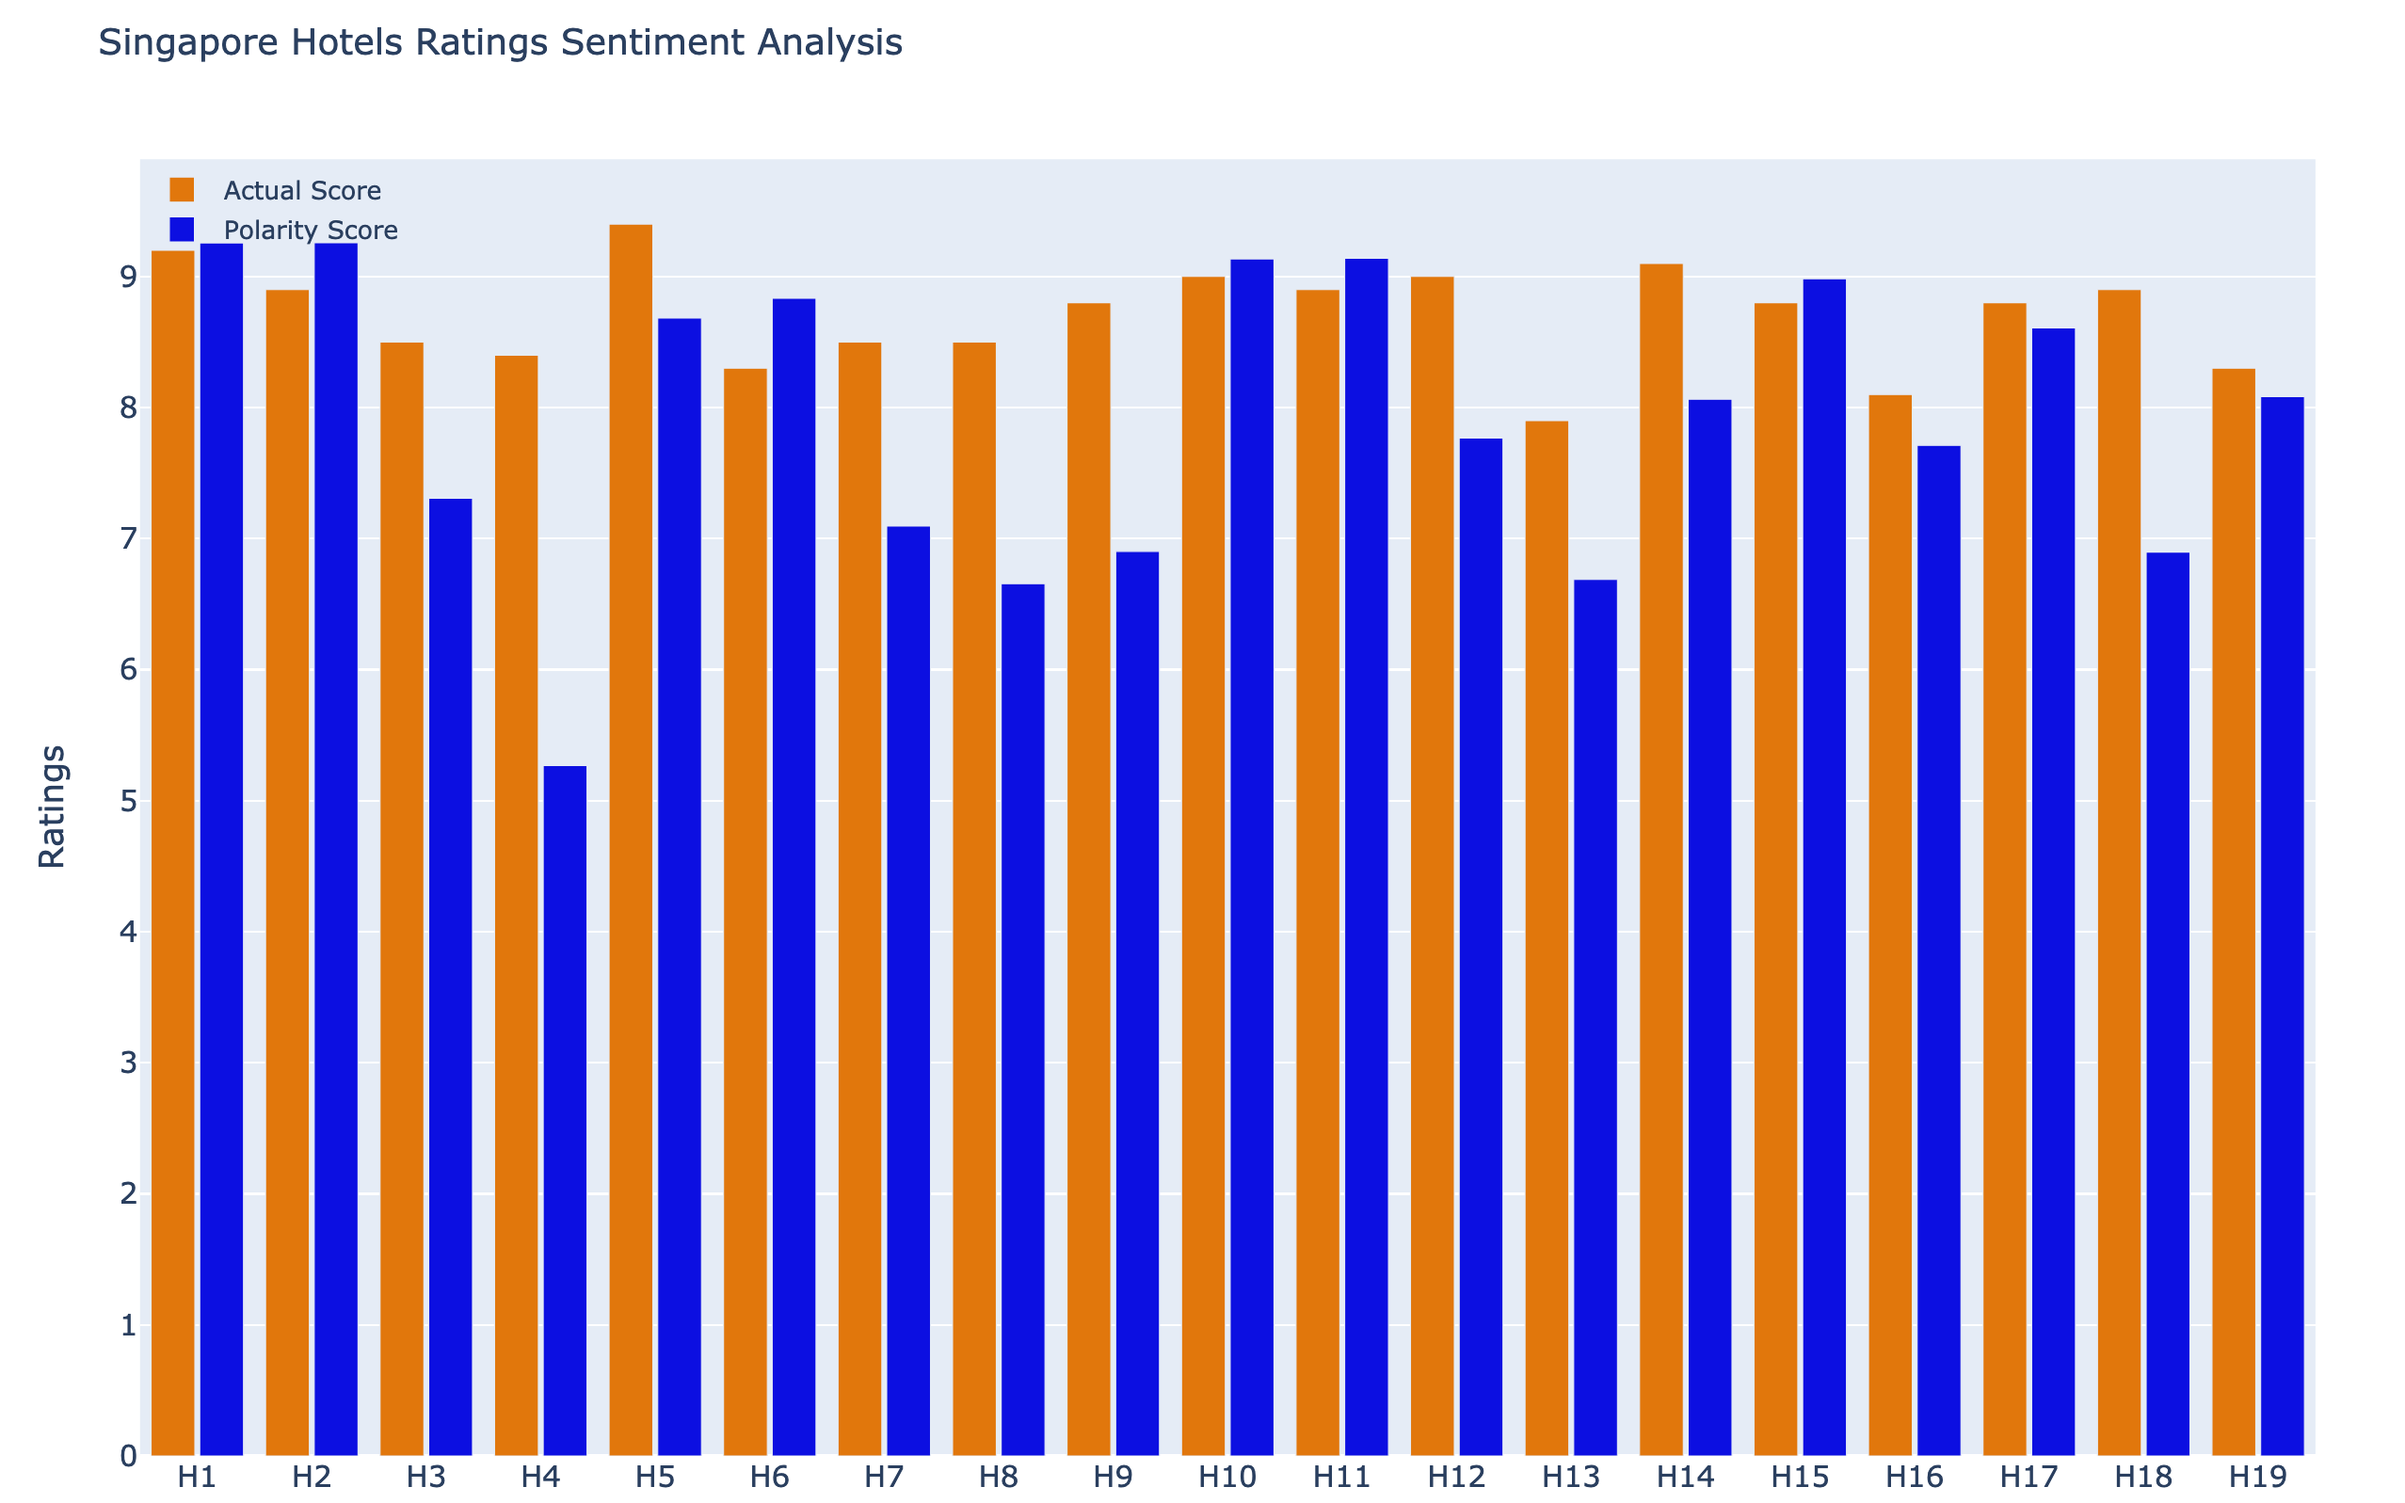
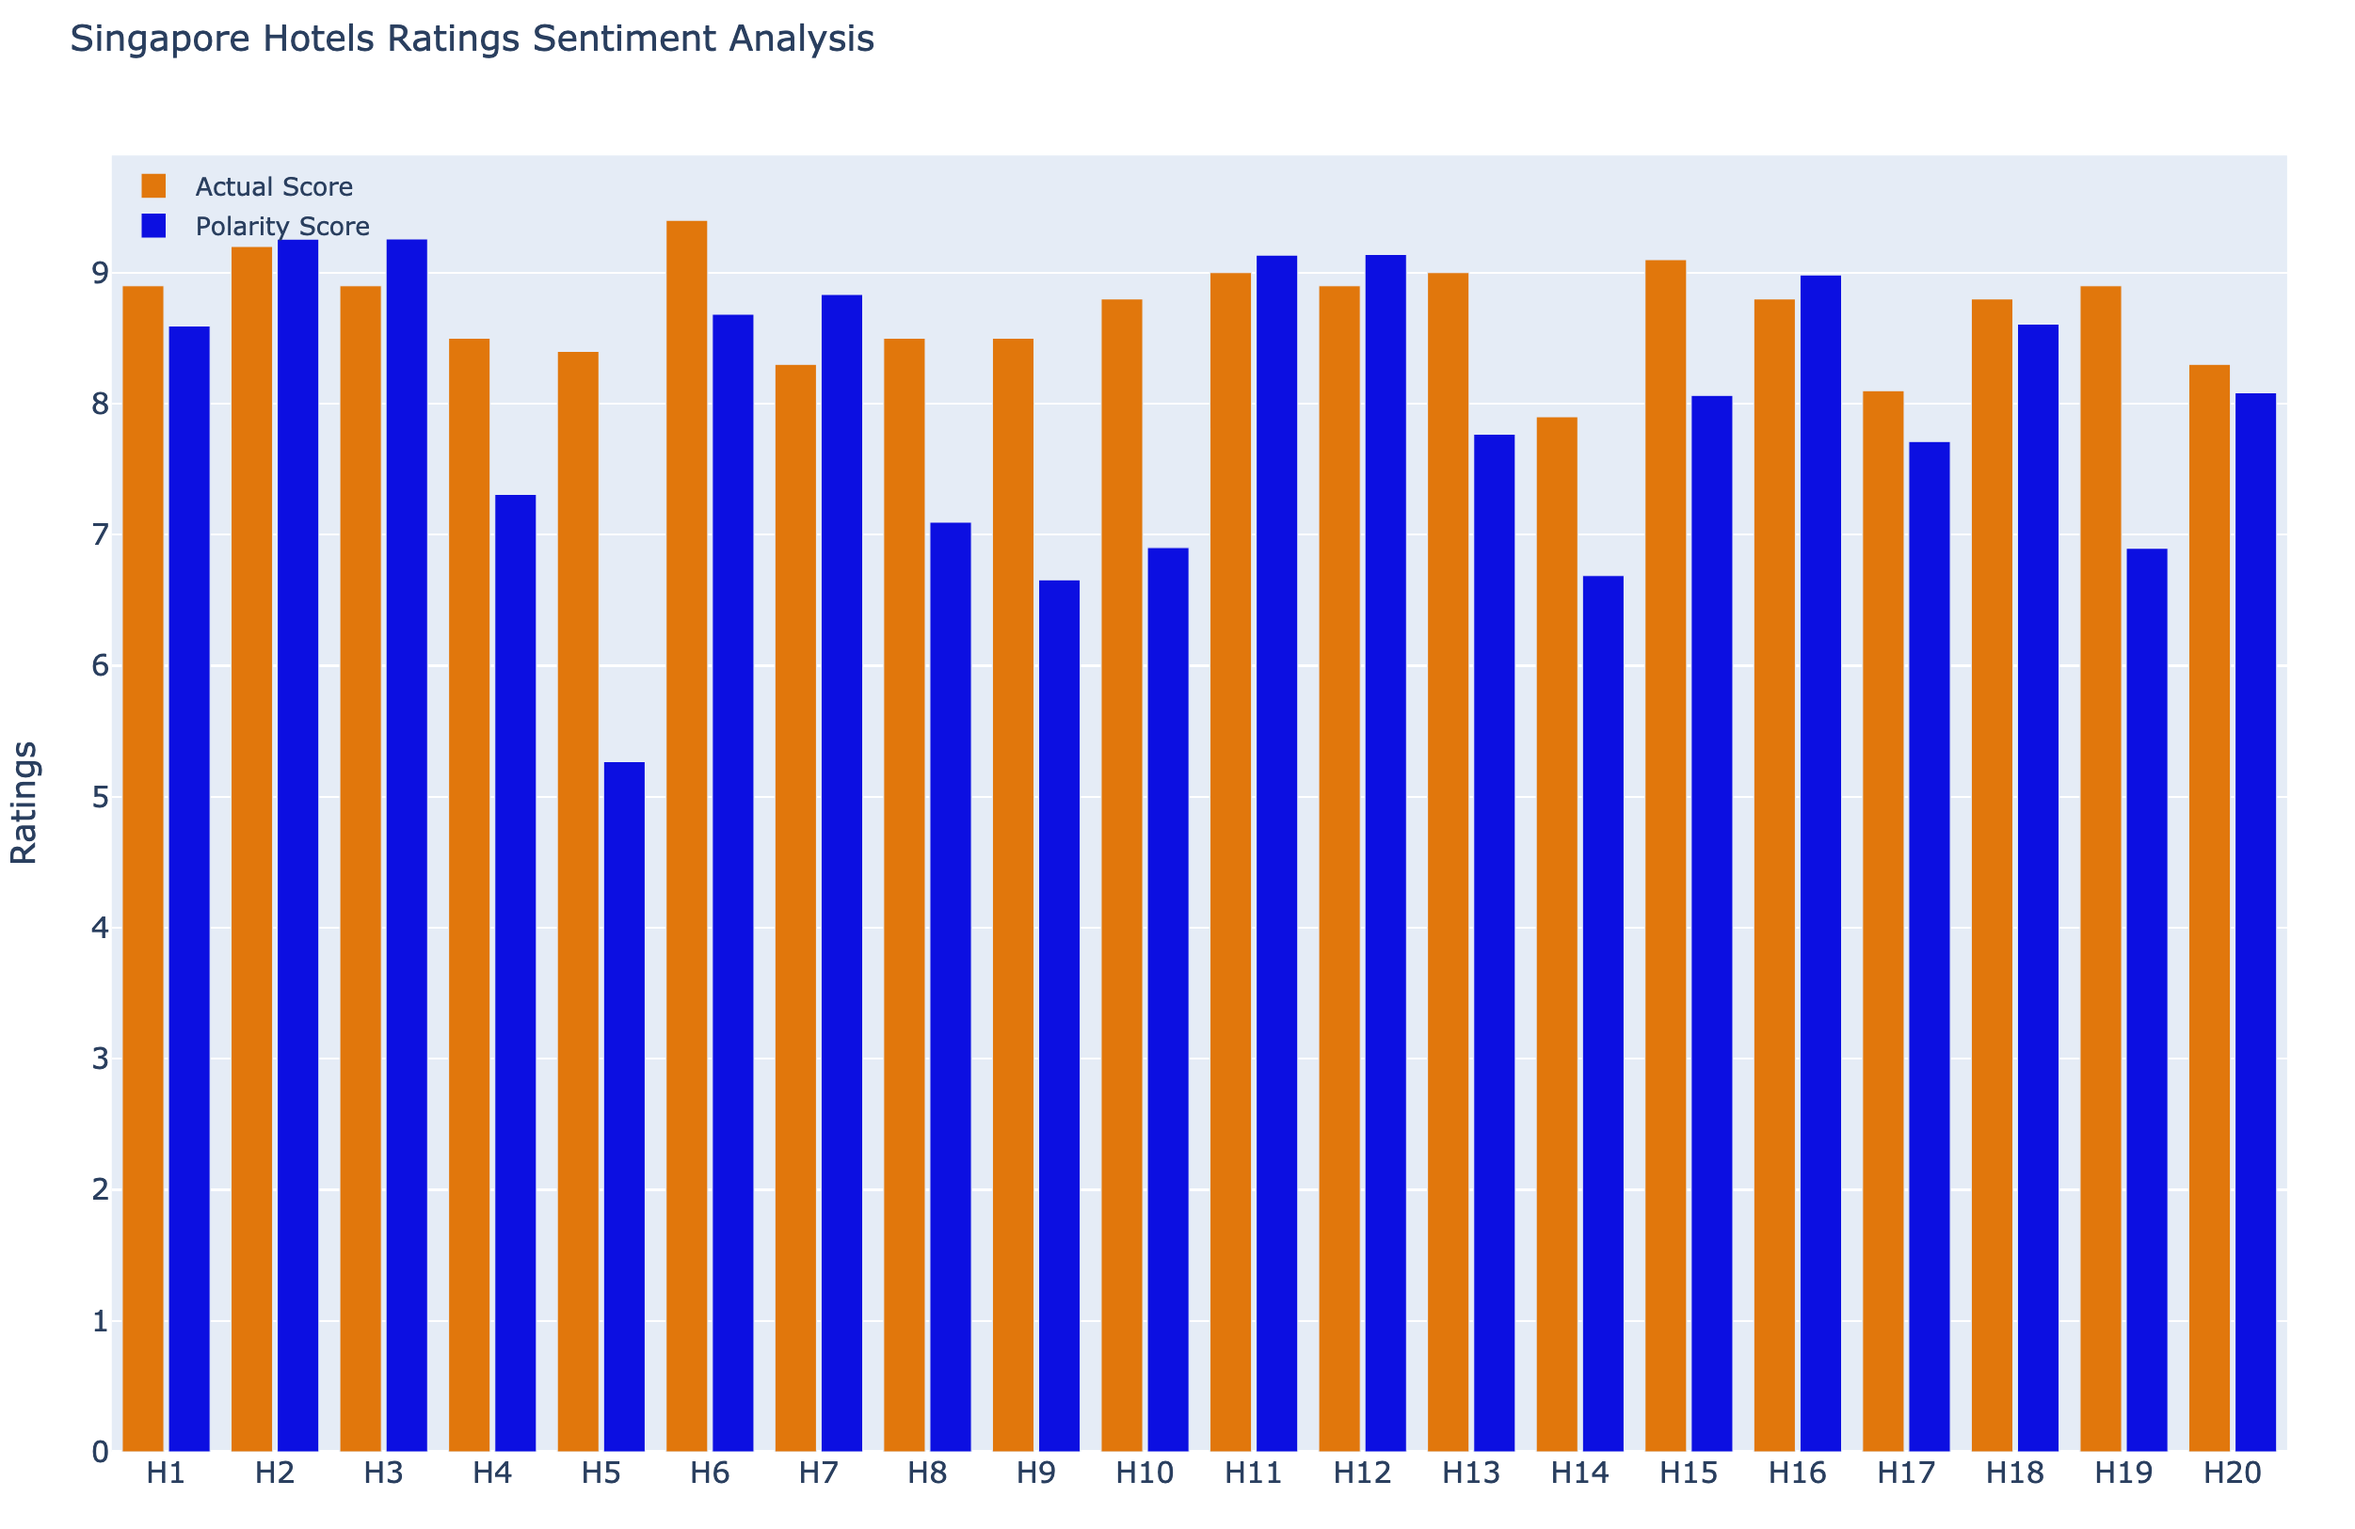
fixed issue of 19 hotels only in Singapore and Bangkok, updated the sentiment images

diff --git a/sentiment.py b/sentiment.py
@@ -10,7 +10,6 @@ import numpy as np
 from nltk.sentiment.vader import SentimentIntensityAnalyzer
 import statistics
 import csv
-<<<<<<< HEAD
 
 
 #Fetching the link to the json data
@@ -59,26 +58,24 @@ print("New hotel details are ")
 print(new_hotel_details)
 print(len(new_hotel_details))
 
-to_dump_json_details = json.dumps(new_hotel_details, indent = 4)   
-write_location = current_path + '/dataset/sentiment/bangkok_sentiment.json' 
-with open(write_location, 'w') as file:
-    file.write(to_dump_json_details) 
-    file.close()
+# to_dump_json_details = json.dumps(new_hotel_details, indent = 4)   
+# write_location = current_path + '/bangkok_sentiment.json' 
+# with open(write_location, 'w') as file:
+#     file.write(to_dump_json_details) 
+#     file.close()
 
-write_location = current_path + '/dataset/sentiment/bangkok_sentiment.csv'
+# write_location = current_path + '/dataset/sentiment/bangkok_sentiment.csv'
+write_location = current_path + '/bangkok_sentiment_new.csv'
+
 with open(write_location, 'w', newline = '') as file:
     w = csv.writer(file)
     w.writerows(new_hotel_details)
     file.close()
 
-#adding header names to the csv file just created. 
-header_names = ["name", "score", "polarity score", "location"]
-dw = csv.DictWriter(file, delimiter = ',', fieldnames=header_names)
-file_address = current_path + '/dataset/sentiment/bangkok_sentiment.csv'
-file = pd.read_csv(file_address)
-file.to_csv(file_address, header=header_names, index=False)
+# #adding header names to the csv file just created. 
+# header_names = ["name", "score", "polarity score", "location"]
+# dw = csv.DictWriter(file, delimiter = ',', fieldnames=header_names)
+# file_address = current_path + '/dataset/sentiment/bangkok_sentiment.csv'
+# file = pd.read_csv(file_address)
+# file.to_csv(file_address, header=header_names, index=False)
 
-=======
-import pandas as pd
-import 
->>>>>>> feaa7e22bca0b9bc33be8fdc15a7da8a1fc3f859

diff --git a/visualisation_sentiment.py b/visualisation_sentiment.py
@@ -2,7 +2,10 @@ import plotly.graph_objects as go
 import pandas as pd
 
 # Read csv data
-dataFrame = pd.read_csv("./dataset/sentiment/bangkok_sentiment.csv")
+# dataFrame = pd.read_csv("./dataset/sentiment/bangkok_sentiment.csv")
+
+dataFrame = pd.read_csv("bangkok_sentiment_new.csv")
+
 # Create initial arrays for hotels score
 actual_hotel_score = list()
 polarity_hotel_score = list()
